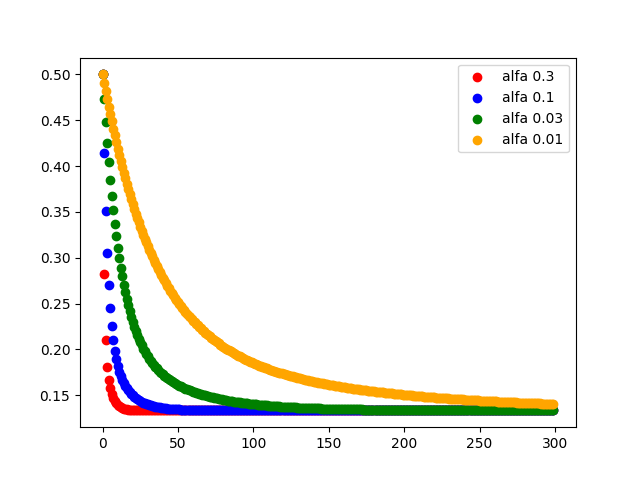
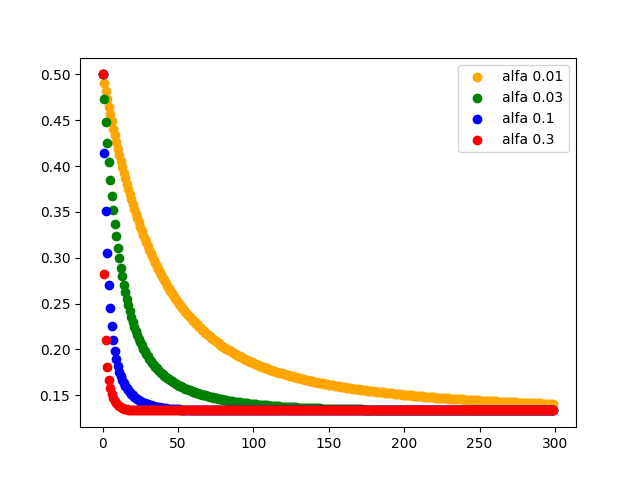
Finito P1

diff --git a/P1_RegresionLineal/prac1.py b/P1_RegresionLineal/prac1.py
@@ -79,27 +79,36 @@ def coste_vectorizado(X, Y, Theta):
 
 def regresion_varias():
     datos = carga_csv("ex1data2.csv")
-    mat_norm, media, desv = normaliza_matriz(datos)
+    mat_norm, medias, desvs = normaliza_matriz(datos)
     X = mat_norm[:,:-1]
     Y = mat_norm[:,-1]
     m = np.shape(X)[0]
     X = np.hstack([np.ones([m,1]),X])
 
     plt.figure()
-    alpha = 0.3
-    Thetas, costes = descenso_gradiente(X,Y,alpha)
-    plt.scatter(np.arange(np.shape(costes)[0]),costes,c='red',label='alfa 0.3')
-    alpha = 0.1
-    Thetas, costes = descenso_gradiente(X,Y,alpha)
-    plt.scatter(np.arange(np.shape(costes)[0]),costes,c='blue',label='alfa 0.1')
-    alpha = 0.03
-    Thetas, costes = descenso_gradiente(X,Y,alpha)
-    plt.scatter(np.arange(np.shape(costes)[0]),costes,c='green',label='alfa 0.03')
+
     alpha = 0.01
     Thetas, costes = descenso_gradiente(X,Y,alpha)
     plt.scatter(np.arange(np.shape(costes)[0]),costes,c='orange',label='alfa 0.01')
+    alpha = 0.03
+    Thetas, costes = descenso_gradiente(X,Y,alpha)
+    plt.scatter(np.arange(np.shape(costes)[0]),costes,c='green',label='alfa 0.03')
+    alpha = 0.1
+    Thetas, costes = descenso_gradiente(X,Y,alpha)
+    plt.scatter(np.arange(np.shape(costes)[0]),costes,c='blue',label='alfa 0.1')
+    alpha = 0.3
+    Thetas, costes = descenso_gradiente(X,Y,alpha)
+    plt.scatter(np.arange(np.shape(costes)[0]),costes,c='red',label='alfa 0.3')
+    
     plt.legend()
     plt.savefig("Decenso gradiente")
+
+    #Probamos a predecir el precio de una casa de 1650 pies cuadrados y 3 habitaciones
+    #Primero normalizamos los valores para meterlos a la funcion
+    pies = (1650 - medias[0])/desvs[0]
+    habs = (3 - medias[1])/desvs[1]
+    precio = (Thetas[0]+Thetas[1]*pies+Thetas[2]*habs)*desvs[2]+medias[2]
+    print(f"Precio predecido para 1650 pies con 3 habitaciones con descenso de gradiente: {precio}")
 
 def descenso_gradiente(X, Y, alpha):
     Theta = np.zeros(np.shape(X)[1])
@@ -128,5 +137,23 @@ def gradiente2(X,Y,Theta, alpha):
     H = np.dot(X, Theta)
     return Theta - (alpha/m) * np.dot(np.transpose(X), (H-Y))
 
+def ec_normal(X,Y):
+    return np.dot(np.linalg.pinv(np.dot(np.transpose(X), X)),np.dot(np.transpose(X), Y))
+
+def resultado_normal():
+    datos = carga_csv("ex1data2.csv")
+    X = datos[:,:-1]
+    Y = datos[:,-1]
+    m = np.shape(X)[0]
+    X = np.hstack([np.ones([m,1]),X])
+    Thetas = ec_normal(X,Y)
+    pies = 1650
+    habs = 3
+    precio = (Thetas[0]+Thetas[1]*pies+Thetas[2]*habs)
+    print(f"Precio predecido para 1650 pies con 3 habitaciones con ecuacion normal: {precio}")
+
+
+
 #regresion_lineal()
 regresion_varias()
+resultado_normal()
